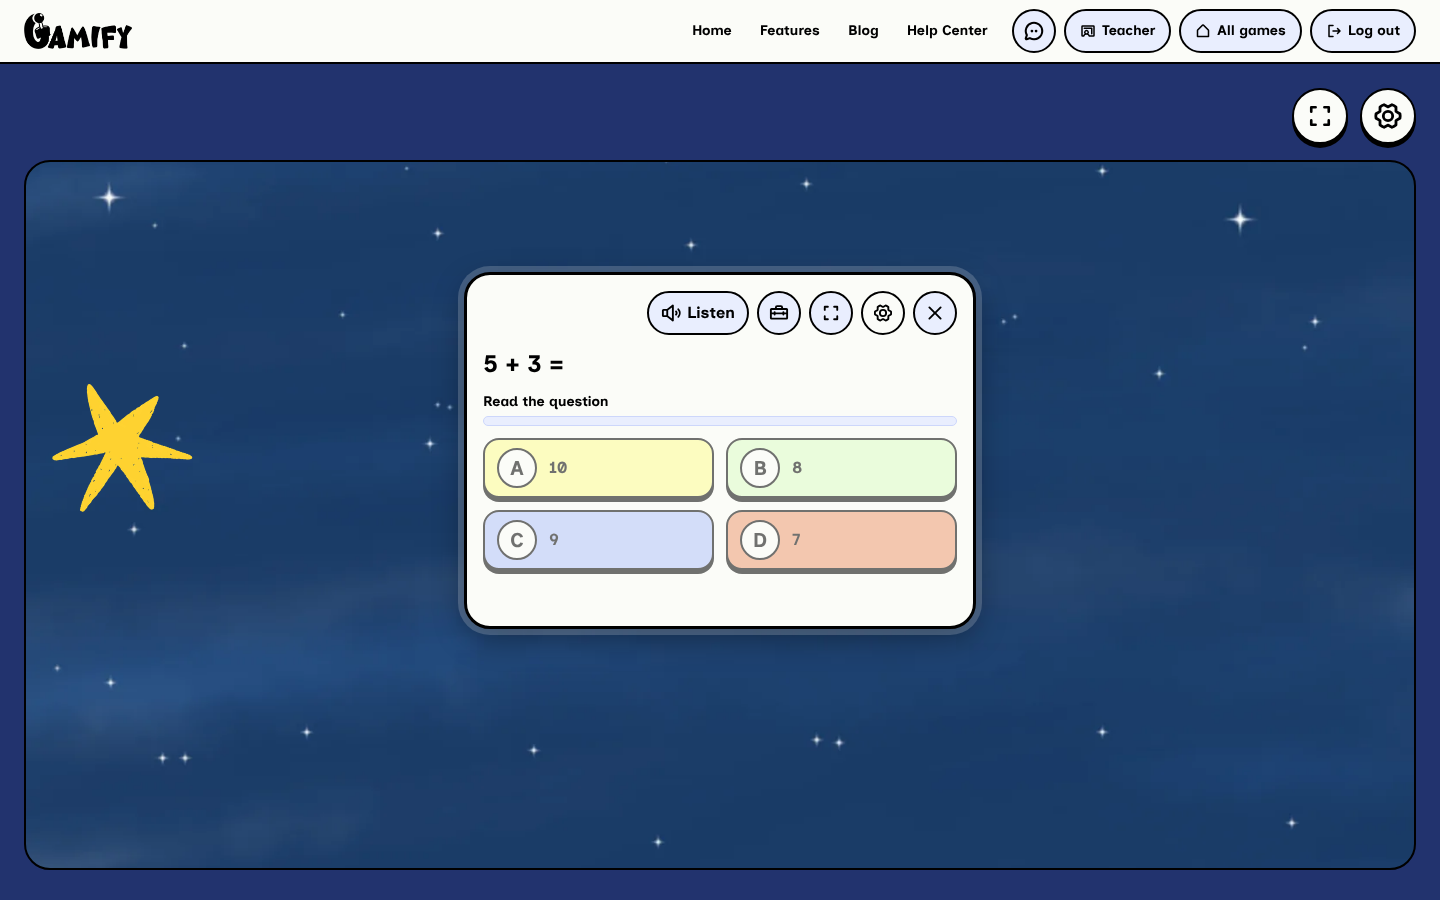
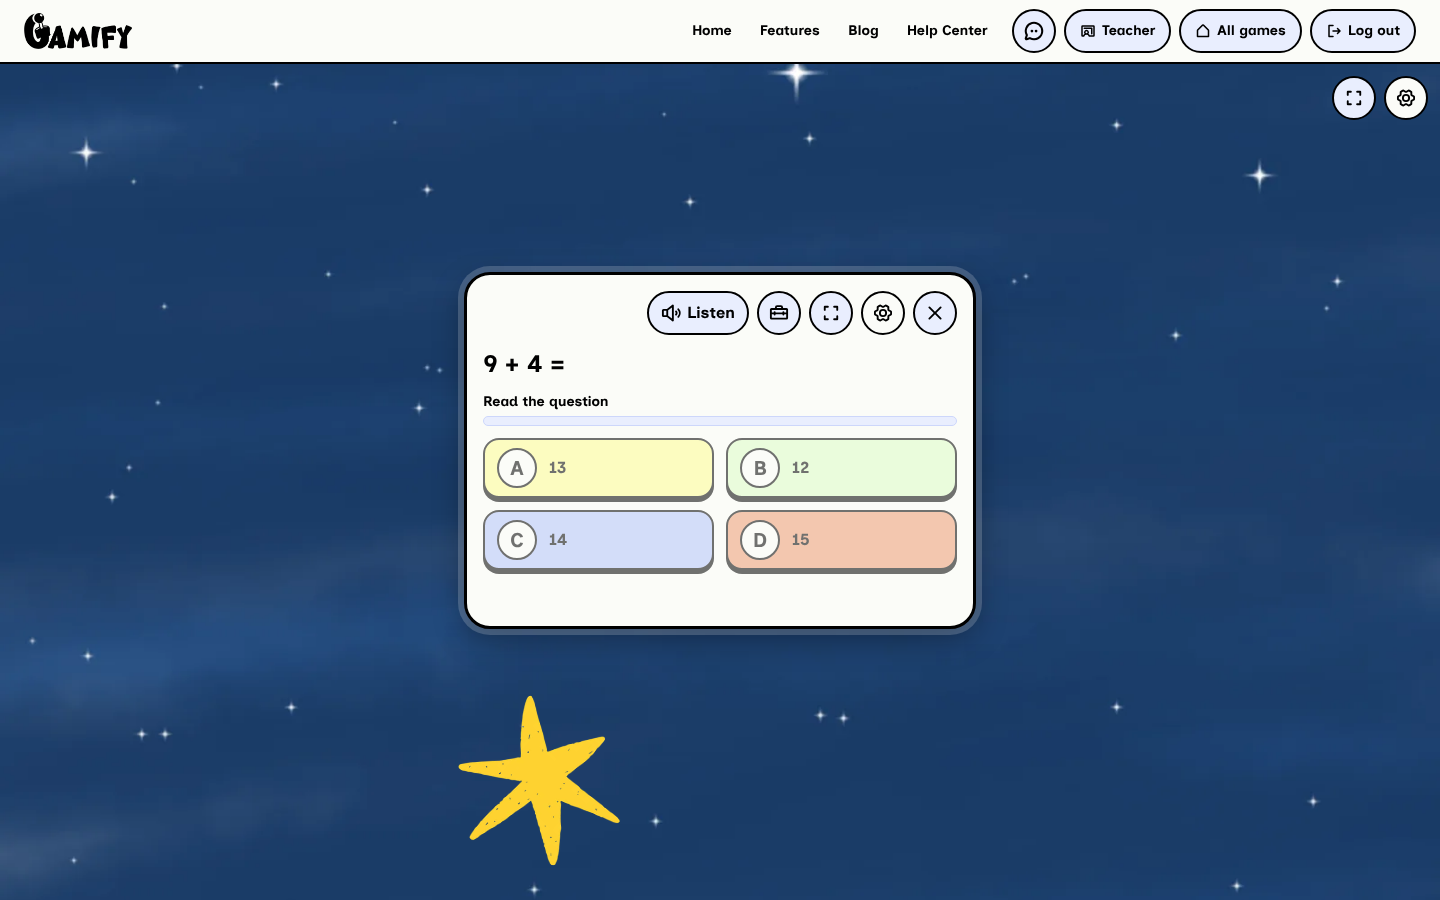
Question Tracker: the sky fills the whole space with small controls on top; stars vary more in size and never sit next to one of the same kind
Claude-Session: https://claude.ai/code/session_01APER8wtnDZSnzGLifX9o6w

diff --git a/src/games/practice/Sky.tsx b/src/games/practice/Sky.tsx
@@ -1,4 +1,4 @@
-import { useEffect, useRef, useState } from 'react';
+import { useEffect, useMemo, useRef, useState } from 'react';
 import { motion } from 'motion/react';
 import { Star } from '@phosphor-icons/react';
 import { pieceColor, pieceImage } from '../../theme/library';
@@ -42,7 +42,7 @@ export function skySpots(count: number, seed = 7, hole: Hole | null = DEFAULT_HO
     const unit = `min(${(w / cols).toFixed(2)}cqw, ${(ht / rows).toFixed(2)}cqh)`;
     const cells = Array.from({ length: cols * rows }, (_, i) => i);
     for (let i = cells.length - 1; i > 0; i--) { const j = Math.floor(rand() * (i + 1)); [cells[i], cells[j]] = [cells[j], cells[i]]; }
-    cells.slice(0, n).forEach((c) => { const spin = (rand() - 0.5) * 100; const size = 0.3 + rand() * 0.55; out.push({
+    cells.slice(0, n).forEach((c) => { const spin = (rand() - 0.5) * 100; const size = 0.2 + rand() * 0.75; out.push({
       order: rand(),
       spot: {
         x: left + (((c % cols) + 0.4 + rand() * 0.2) / cols) * w,
@@ -91,7 +91,8 @@ function useHole(ref: React.RefObject<HTMLDivElement | null>) {
 
 // `colors` tints each filled star (a class sky where every student has a
 // color); `height` sizes the sky when it is not the whole game screen.
-export default function Sky({ theme, filled, total, still, label, colors, height = 'calc(100dvh - 11.875rem + var(--chrome-save, 0rem))' }: { theme: GameTheme; filled: number; total: number; still: boolean; label: string; colors?: string[]; height?: string }) {
+// `bleed`: edge to edge, no rounded frame (the sky is the whole game space).
+export default function Sky({ theme, filled, total, still, label, colors, height = 'calc(100dvh - 11.875rem + var(--chrome-save, 0rem))', bleed = false }: { theme: GameTheme; filled: number; total: number; still: boolean; label: string; colors?: string[]; height?: string; bleed?: boolean }) {
   const ref = useRef<HTMLDivElement>(null);
   const { hole, aspect } = useHole(ref);
   const spots = skySpots(total, 7, hole, aspect);
@@ -99,15 +100,17 @@ export default function Sky({ theme, filled, total, still, label, colors, height
   const own = ITEM_PIECES.map((id) => pieceImage(theme, id)).filter(Boolean) as string[];
   const items = own.length ? own : ITEM_PIECES.map((id) => pieceImage(classicTheme(theme.gameId), id)).filter(Boolean) as string[];
   const dust = skySpots(36, 3, null, aspect);
+  // Each star's kind differs from its near neighbors (teacher, 2026-10-31).
+  const kinds = useMemo(() => pickKinds(spots, Math.max(1, items.length), aspect), [spots, items.length, aspect]);
   return (
-    <div ref={ref} className="relative w-full overflow-hidden rounded-panel border-[2.5px] border-border" role="img" aria-label={label}
+    <div ref={ref} className={`relative w-full overflow-hidden ${bleed ? '' : 'rounded-panel border-[2.5px] border-border'}`} role="img" aria-label={label}
       style={{ containerType: 'size', height, background: theme.pieces.background?.image ? `center / cover url("${theme.pieces.background.image}")` : `linear-gradient(180deg, #0d1638 0%, ${theme.colors.background} ${40 + (filled / total) * 60}%)` }}>
       {!theme.pieces.background?.image && dust.map((d, i) => (
         <span key={`d${i}`} className="absolute rounded-full bg-white" style={{ left: `${d.x}%`, top: `${d.y}%`, width: 2 + (i % 3), height: 2 + (i % 3), opacity: 0.25 + 0.5 * (filled / total) }} aria-hidden="true" />
       ))}
       {spots.map((p, i) => {
         if (i >= filled) return null;
-        const img = items.length && !colors ? items[i % items.length] : undefined;
+        const img = items.length && !colors ? items[kinds[i] % items.length] : undefined;
         return (
           <motion.span key={i} className="absolute -translate-x-1/2 -translate-y-1/2" style={{ left: `${p.x}%`, top: `${p.y}%`, width: `calc(${p.unit} * ${p.size})`, height: `calc(${p.unit} * ${p.size})` }}
             initial={still ? false : { scale: 0, rotate: -90, opacity: 0 }}
@@ -121,4 +124,19 @@ export default function Sky({ theme, filled, total, still, label, colors, height
       })}
     </div>
   );
+}
+
+// Gives each spot a kind so no two close stars match: the kind least used
+// that no nearby spot already has (in screen distance, using the sky's shape).
+export function pickKinds(spots: SkySpot[], n: number, aspect = 1): number[] {
+  const out: number[] = [];
+  const used = Array.from({ length: n }, () => 0);
+  spots.forEach((p, i) => {
+    const near = new Set<number>();
+    spots.slice(0, i).forEach((q, j) => { const dx = (p.x - q.x) * aspect, dy = p.y - q.y; if (Math.hypot(dx, dy) < 28) near.add(out[j]); });
+    const order = Array.from({ length: n }, (_, k) => (k + i) % n).sort((a, b) => used[a] - used[b]);
+    const k = order.find((c) => !near.has(c)) ?? order[0];
+    out.push(k); used[k] += 1;
+  });
+  return out;
 }

diff --git a/src/games/practice/StarQuiz.tsx b/src/games/practice/StarQuiz.tsx
@@ -8,7 +8,7 @@ import ResultsModal from '../../engine/ResultsModal';
 import { usePlayClock } from '../../engine/playClock';
 import { useAsk } from '../../engine/useAsk';
 import { t } from '../../i18n';
-import { GameTopRow, SettingsPanel } from '../../settings/SettingsPanel';
+import { FullScreenButton, GameTopRow, GearButton, SettingsPanel } from '../../settings/SettingsPanel';
 import { useSettings } from '../../settings/SettingsContext';
 import { Slider } from '../../ui/fields';
 import GameWelcome from '../GameWelcome';
@@ -83,8 +83,8 @@ export default function StarQuiz() {
 
   return (
     <ThemedPage theme={theme} menu={phase !== 'play' && phase !== 'end'}>
-    <main className={`${phase === 'play' || phase === 'end' ? 'max-w-none' : 'max-w-3xl'} mx-auto px-4 sm:px-6 pt-6 pb-6`}>
-      <GameTopRow onSettings={() => setSettingsOpen(true)} />
+    <main className={phase === 'play' || phase === 'end' ? '!p-0' : 'max-w-3xl mx-auto px-4 sm:px-6 pt-6 pb-6'}>
+      {phase !== 'play' && phase !== 'end' && <GameTopRow onSettings={() => setSettingsOpen(true)} />}
       {clock.element}
       <SettingsPanel open={settingsOpen} onClose={() => setSettingsOpen(false)} context="star-quiz" />
 
@@ -112,9 +112,15 @@ export default function StarQuiz() {
       )}
 
       {(phase === 'play' || phase === 'end') && (
-        <section className="grid gap-2">
+        // The sky fills the whole space, the same in full screen; small controls
+        // sit on top (teacher, 2026-10-31).
+        <section className="relative play-fill">
           <h1 className="sr-only"><Title text={t('practice.title')} /></h1>
-          <Sky theme={theme} filled={stars} total={total} still={settings.motion === 'still'} label={t('practice.stars', { count: stars })} colors={myColor ? Array.from({ length: total }, () => myColor) : undefined} />
+          <Sky theme={theme} filled={stars} total={total} still={settings.motion === 'still'} label={t('practice.stars', { count: stars })} colors={myColor ? Array.from({ length: total }, () => myColor) : undefined} height="100%" bleed />
+          <div className="absolute top-3 right-3 flex items-center gap-2 z-10 [&_button]:!w-11 [&_button]:!h-11">
+            <FullScreenButton small />
+            <GearButton small onClick={() => setSettingsOpen(true)} />
+          </div>
           <p className="sr-only" aria-live="polite">{phase === 'play' ? t('practice.progress', { round, total }) : ''}</p>
         </section>
       )}
